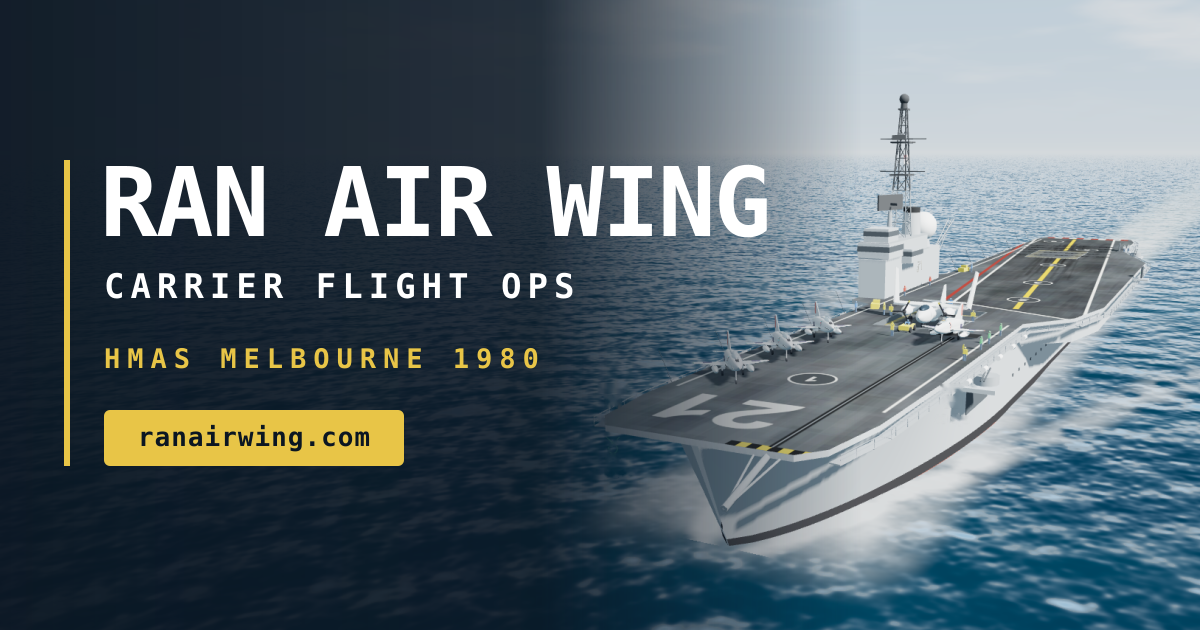
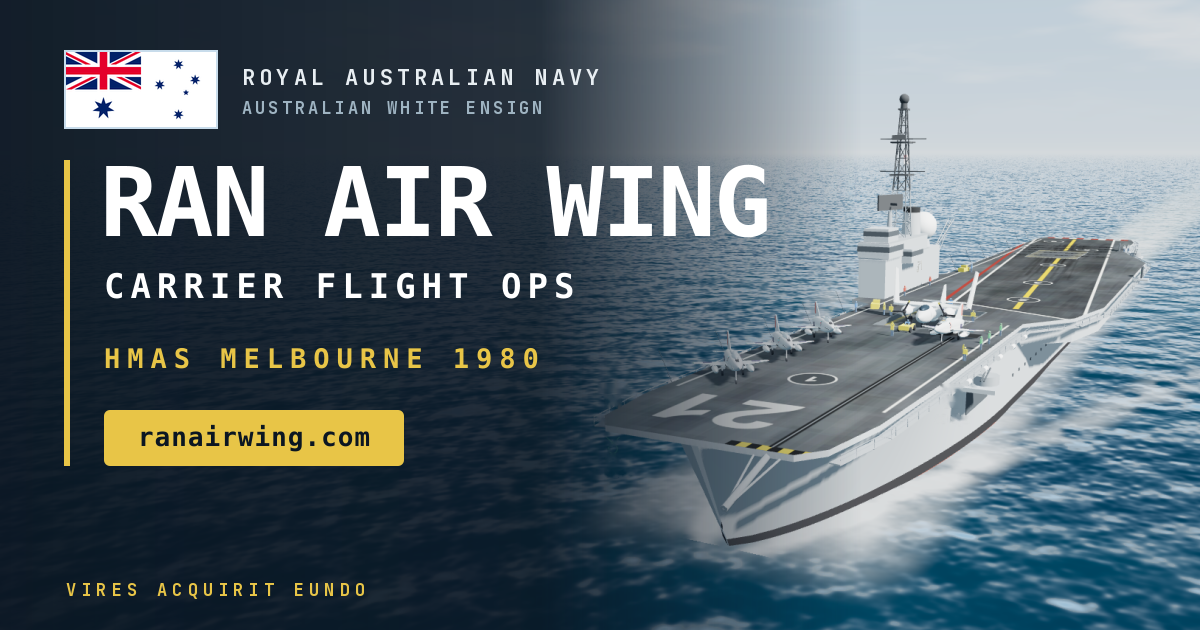
style: Australian White Ensign and ship's motto in design system, homepage and OG image
- assets/ensign.svg generated by tools/brand/make_ensign.py from the national flag construction (colours inverted)
- docs/style-guide.md: new Insignia section (flag rules, colours, motto, honours, badge rights note, sources)
- blog.css: --ensign-blue / --ensign-red tokens
- index.html: ensign and Vires acquirit eundo in the title panel; OG alt text updated
- og.png rebuilt by tools/brand/make_og.py from tools/brand/og-base.png

Claude-Session: https://claude.ai/code/session_01Gttv1LmP7fXP49KdGbixAs

Changed region(s): [[0.0308, 0.0603, 0.4933, 0.2111], [0.0617, 0.9048, 0.2158, 0.9651], [0.2467, 0.9048, 0.3083, 0.9651]]

diff --git a/index.html b/index.html
@@ -13,12 +13,12 @@
 <meta property="og:image" content="https://ranairwing.com/og.png">
 <meta property="og:image:width" content="1200">
 <meta property="og:image:height" content="630">
-<meta property="og:image:alt" content="RAN Air Wing, carrier flight ops, HMAS Melbourne 1980: the carrier at sea in the sim, with ranairwing.com">
+<meta property="og:image:alt" content="RAN Air Wing, carrier flight ops, HMAS Melbourne 1980: the carrier at sea in the sim, with the Australian White Ensign and ranairwing.com">
 <meta name="twitter:card" content="summary_large_image">
 <meta name="twitter:title" content="RAN Air Wing: carrier flight ops, HMAS Melbourne 1980">
 <meta name="twitter:description" content="Fly classic aircraft from HMAS Melbourne (R21) in a browser carrier flight sim set in 1980.">
 <meta name="twitter:image" content="https://ranairwing.com/og.png">
-<meta name="twitter:image:alt" content="RAN Air Wing, carrier flight ops, HMAS Melbourne 1980: the carrier at sea in the sim, with ranairwing.com">
+<meta name="twitter:image:alt" content="RAN Air Wing, carrier flight ops, HMAS Melbourne 1980: the carrier at sea in the sim, with the Australian White Ensign and ranairwing.com">
 <!-- Google tag (GA4). Google tag gateway is enabled in Cloudflare, which serves this tag first-party; no change to the snippet is needed. -->
 <script async src="https://www.googletagmanager.com/gtag/js?id=G-H0ZE9XML6B"></script>
 <script>
@@ -36,6 +36,9 @@ gtag('config','G-H0ZE9XML6B');
     backdrop-filter:blur(6px);-webkit-backdrop-filter:blur(6px);border-radius:3px;padding:10px 12px}
   #title{top:12px;left:12px}
   #title h1{margin:0;font-size:14px;font-weight:600;letter-spacing:.16em}
+  #title .id{display:flex;align-items:center;gap:10px}
+  #title .ensign{flex:none;border:1px solid rgba(200,220,235,.35);display:block}
+  #title p.motto{margin:2px 0 0;color:#8fa6b5;font-size:10px;letter-spacing:.14em;text-transform:uppercase}
   #title p{margin:3px 0 0;color:#9fb4c2;font-size:11px}
   #title .more{margin-top:6px}
   #title a{color:#e8c547;text-decoration:none;border-bottom:1px solid rgba(232,197,71,.4)}
@@ -91,7 +94,7 @@ gtag('config','G-H0ZE9XML6B');
 <body>
 <canvas id="c"></canvas>
 <canvas id="hud"></canvas>
-<div id="title" class="panel"><h1>HMAS MELBOURNE &middot; R21</h1><p>Phase 2 &middot; flyable A-4G Skyhawk &middot; task group &middot; c. 1980</p><p class="more"><a href="https://malgordon.com" target="_blank" rel="noopener">Another Mal Gordon creation</a></p><p class="more menu"><a href="about.html">About</a><a href="blog/">Blog</a></p><p class="more"><a href="mailto:contact@ranairwing.com">contact@ranairwing.com</a></p><p class="more"><a class="coffee" href="https://buy.stripe.com/9B6cMX2TT3tPaFi0UcaAw00" target="_blank" rel="noopener">&#9749; Buy me a coffee</a></p></div>
+<div id="title" class="panel"><div class="id"><img class="ensign" src="assets/ensign.svg" width="48" height="24" alt="Australian White Ensign, the ensign of the Royal Australian Navy"><div><h1>HMAS MELBOURNE &middot; R21</h1><p class="motto" title="She gathers strength as she goes">Vires acquirit eundo</p></div></div><p>Phase 2 &middot; flyable A-4G Skyhawk &middot; task group &middot; c. 1980</p><p class="more"><a href="https://malgordon.com" target="_blank" rel="noopener">Another Mal Gordon creation</a></p><p class="more menu"><a href="about.html">About</a><a href="blog/">Blog</a></p><p class="more"><a href="mailto:contact@ranairwing.com">contact@ranairwing.com</a></p><p class="more"><a class="coffee" href="https://buy.stripe.com/9B6cMX2TT3tPaFi0UcaAw00" target="_blank" rel="noopener">&#9749; Buy me a coffee</a></p></div>
 <div id="tut" class="panel"></div>
 <div id="hint">drag to look &middot; scroll to zoom &middot; keys 1&ndash;5 for cameras</div>
 <div id="read" class="panel">

diff --git a/blog/style.css b/blog/style.css
@@ -1,4 +1,4 @@
-:root{--bg:#0b1622;--panel:rgba(8,18,28,.62);--line:rgba(200,220,235,.18);--text:#e8eef2;--mute:#9fb4c2;--label:#8fa6b5;--acc:#e8c547;--acc2:#f3d86b;--ink:#10202c;--ok:#5dff8f;--warn:#ff9a8c}
+:root{--bg:#0b1622;--panel:rgba(8,18,28,.62);--line:rgba(200,220,235,.18);--text:#e8eef2;--mute:#9fb4c2;--label:#8fa6b5;--acc:#e8c547;--acc2:#f3d86b;--ink:#10202c;--ok:#5dff8f;--warn:#ff9a8c;--ensign-blue:#012169;--ensign-red:#e4002b}
 *{box-sizing:border-box}
 html{background:var(--bg)}
 body{margin:0;color:var(--text);background:var(--bg);font-family:ui-monospace,"SF Mono",Menlo,Consolas,monospace;font-size:15px;line-height:1.7;letter-spacing:.04em}

diff --git a/tools/blog/blog.css b/tools/blog/blog.css
@@ -1,4 +1,4 @@
-:root{--bg:#0b1622;--panel:rgba(8,18,28,.62);--line:rgba(200,220,235,.18);--text:#e8eef2;--mute:#9fb4c2;--label:#8fa6b5;--acc:#e8c547;--acc2:#f3d86b;--ink:#10202c;--ok:#5dff8f;--warn:#ff9a8c}
+:root{--bg:#0b1622;--panel:rgba(8,18,28,.62);--line:rgba(200,220,235,.18);--text:#e8eef2;--mute:#9fb4c2;--label:#8fa6b5;--acc:#e8c547;--acc2:#f3d86b;--ink:#10202c;--ok:#5dff8f;--warn:#ff9a8c;--ensign-blue:#012169;--ensign-red:#e4002b}
 *{box-sizing:border-box}
 html{background:var(--bg)}
 body{margin:0;color:var(--text);background:var(--bg);font-family:ui-monospace,"SF Mono",Menlo,Consolas,monospace;font-size:15px;line-height:1.7;letter-spacing:.04em}

diff --git a/tools/brand/make_ensign.py b/tools/brand/make_ensign.py
@@ -1,0 +1,35 @@
+#!/usr/bin/env python3
+"""Generate assets/ensign.svg: the Australian White Ensign (RAN ensign, flown 1 March 1967 onward).
+Construction follows the Australian national flag schedule (Flags Act 1953), colours inverted:
+white field, Union Flag canton, blue Commonwealth Star in the lower hoist, blue Southern Cross in the fly.
+Units: hoist = 600, fly = 1200. Star radii: Commonwealth 3/20 hoist, Southern Cross 1/14 hoist, Epsilon 1/24 hoist; inner radius 4/9 outer."""
+import math
+H=600; BLUE="#012169"; RED="#e4002b"
+def star(cx,cy,R,n):
+    r=R*4/9; pts=[]
+    for i in range(2*n):
+        a=-math.pi/2+i*math.pi/n; rad=R if i%2==0 else r
+        pts.append(f"{cx+rad*math.cos(a):.2f},{cy+rad*math.sin(a):.2f}")
+    return f'<polygon points="{" ".join(pts)}" fill="{BLUE}"/>'
+fx,fy=1.5*H,.5*H           # centre of the square fly
+stars=[star(.5*H,.75*H,.15*H,7),                        # Commonwealth Star, centred in lower hoist
+       star(fx,5/6*H,H/14,7),                           # Alpha: below centre, 1/6 up from bottom edge
+       star(fx+(-1/4)*H,fy-H/16,H/14,7),                # Beta: 1/4 left, 1/16 up
+       star(fx,H/6,H/14,7),                             # Gamma: above centre, 1/6 down from top edge
+       star(fx+2/9*H,fy-31/240*H,H/14,7),               # Delta: 2/9 right, 31/240 up
+       star(fx+H/10,fy+H/24,H/24,5)]                    # Epsilon: 1/10 right, 1/24 down
+svg=f'''<svg xmlns="http://www.w3.org/2000/svg" viewBox="0 0 {2*H} {H}" width="{2*H}" height="{H}" role="img" aria-labelledby="t">
+<title id="t">Australian White Ensign, the ensign of the Royal Australian Navy</title>
+<rect width="{2*H}" height="{H}" fill="#ffffff"/>
+<g transform="scale(10)">
+<clipPath id="s"><path d="M0,0 v30 h60 v-30 z"/></clipPath>
+<clipPath id="t2"><path d="M30,15 h30 v15 z v15 h-30 z h-30 v-15 z v-15 h30 z"/></clipPath>
+<g clip-path="url(#s)"><path d="M0,0 v30 h60 v-30 z" fill="{BLUE}"/>
+<path d="M0,0 L60,30 M60,0 L0,30" stroke="#fff" stroke-width="6"/>
+<path d="M0,0 L60,30 M60,0 L0,30" clip-path="url(#t2)" stroke="{RED}" stroke-width="4"/>
+<path d="M30,0 v30 M0,15 h60" stroke="#fff" stroke-width="10"/>
+<path d="M30,0 v30 M0,15 h60" stroke="{RED}" stroke-width="6"/></g></g>
+{chr(10).join(stars)}
+</svg>
+'''
+open("assets/ensign.svg","w").write(svg); print("wrote assets/ensign.svg")

diff --git a/tools/brand/make_og.py b/tools/brand/make_og.py
@@ -1,0 +1,20 @@
+#!/usr/bin/env python3
+"""Compose og.png (1200x630) from tools/brand/og-base.png: adds the Australian White Ensign, 'Royal Australian Navy'
+and the ship's motto. Needs rsvg-convert and a bold monospace (JetBrains Mono Bold; set OG_FONT)."""
+import os, subprocess
+from PIL import Image, ImageDraw, ImageFont
+FONT=os.environ.get("OG_FONT","/home/claude/promo/fonts/JBMono-Bold.ttf")
+subprocess.run(["rsvg-convert","-w","300","assets/ensign.svg","-o","/tmp/ensign300.png"],check=True)
+im=Image.open("tools/brand/og-base.png").convert("RGBA"); d=ImageDraw.Draw(im)
+fw,fh=150,75; x,y=66,52
+flag=Image.open("/tmp/ensign300.png").convert("RGBA").resize((fw,fh),Image.LANCZOS)
+d.rectangle([x-2,y-2,x+fw+1,y+fh+1],outline=(200,220,235,150),width=2)
+im.alpha_composite(flag,(x,y))
+def track(xy,t,f,fill,tr):
+    px,py=xy
+    for ch in t: d.text((px,py),ch,font=f,fill=fill); px+=f.getlength(ch)+tr
+f1=ImageFont.truetype(FONT,22); f2=ImageFont.truetype(FONT,17)
+track((x+fw+26,y+10),"ROYAL AUSTRALIAN NAVY",f1,(232,238,242,255),4)
+track((x+fw+26,y+44),"AUSTRALIAN WHITE ENSIGN",f2,(159,180,194,255),3)
+track((66,578),"VIRES ACQUIRIT EUNDO",f2,(232,197,71,255),5)
+im.convert("RGB").save("og.png",optimize=True); print("wrote og.png")

diff --git a/docs/style-guide.md b/docs/style-guide.md
@@ -15,9 +15,29 @@ Derived from the sim's own interface (`index.html`). There was no written guide,
 | Warning / note | `#ff9a8c` |
 | Type | `ui-monospace, "SF Mono", Menlo, Consolas, monospace`; body 15px / 1.7 on the blog, 12px in the sim HUD |
 | Tracking | `.04em` body, `.12em`-`.16em` uppercase for headings and labels |
+| Insignia | Australian White Ensign and the motto, see Insignia below. |
 | Radius | 2-3px. No pills, no gradients, no drop shadows beyond a 1px text shadow over imagery |
 
 Rules: dark background only; one accent colour; uppercase tracked labels for categories and metadata; key presses are shown as `<kbd>` in the accent colour; images are sim screenshots with a one-line caption stating camera, time and sea state.
+
+## Insignia
+
+The sim is set in 1977-1982, so the RAN's own ensign applies. The Australian White Ensign replaced the British White Ensign in RAN service on 1 March 1967.
+
+| Item | Rule |
+|---|---|
+| Flag | Australian White Ensign, `assets/ensign.svg` (generated by `tools/brand/make_ensign.py`). Ratio 1:2; white field, Union Flag canton, blue Commonwealth Star in the lower hoist (outer radius 3/20 of the hoist, seven points), blue Southern Cross in the fly (four seven-pointed stars at 1/14 of the hoist, one five-pointed at 1/24). Star positions follow the national flag schedule. |
+| Flag colours | Blue `#012169` (`--ensign-blue`), red `#e4002b` (`--ensign-red`), white `#ffffff`. These are the only places the guide uses red or white fills: they belong to the flag and are never used as UI colours. |
+| Use | Always the whole flag, uncropped, unrotated and never recoloured. On the dark background keep the 1px border `rgba(200,220,235,.35)`. Minimum width 40px. Clear space of half the hoist. |
+| Placement | Top left of an identity block: homepage title panel (48x24px, left of the ship name), the Open Graph image (150x75px, top left, labelled "Royal Australian Navy"), the About page when it is next edited. Not used as decoration or a background. |
+| Motto | VIRES ACQUIRIT EUNDO ("She gathers strength as she goes"), set in uppercase tracked label type, muted `#8fa6b5` on the page and accent `#e8c547` on the Open Graph image. Always paired with the ship name, never on its own. |
+| Honours | HMAS Melbourne (II) carries the battle honour Malaysia 1964-66 (the RAN's page gives these dates; some secondary sources say 1965-66) plus honours inherited from the earlier cruiser, Rabaul 1914 and North Sea 1916-18. Honours are set as plain label text, never as a graphic. |
+| Ship's badge | The badge (a naval crown above a scroll lettered MELBOURNE, with the motto scroll below) is RAN heraldic artwork and is not reproduced here; the sources consulted do not describe laurels. If the owner holds or licenses the official badge, add it as `assets/badge.svg`, sized like the flag, and update this table. |
+| Not used | The British White Ensign, the Union Flag alone, or any invented crest or wreath. |
+
+Open Graph image: rebuilt by `python3 tools/brand/make_og.py` from `tools/brand/og-base.png` (the original artwork, unmodified), so the flag and text stay reproducible.
+
+Sources: Royal Australian Navy Sea Power Centre, "HMAS Melbourne (II)" (seapower.navy.gov.au/node/5255); Australian National Maritime Museum blog, "The Australian White Ensign and its connection with HMAS Vampire" (via camd.org.au/?p=7268); Flags of the World, "Construction Details of the Australian Flag" (crwflags.com); Wikipedia, "Australian white ensign" and "HMAS Melbourne (R21)".
 
 ## Voice
 
